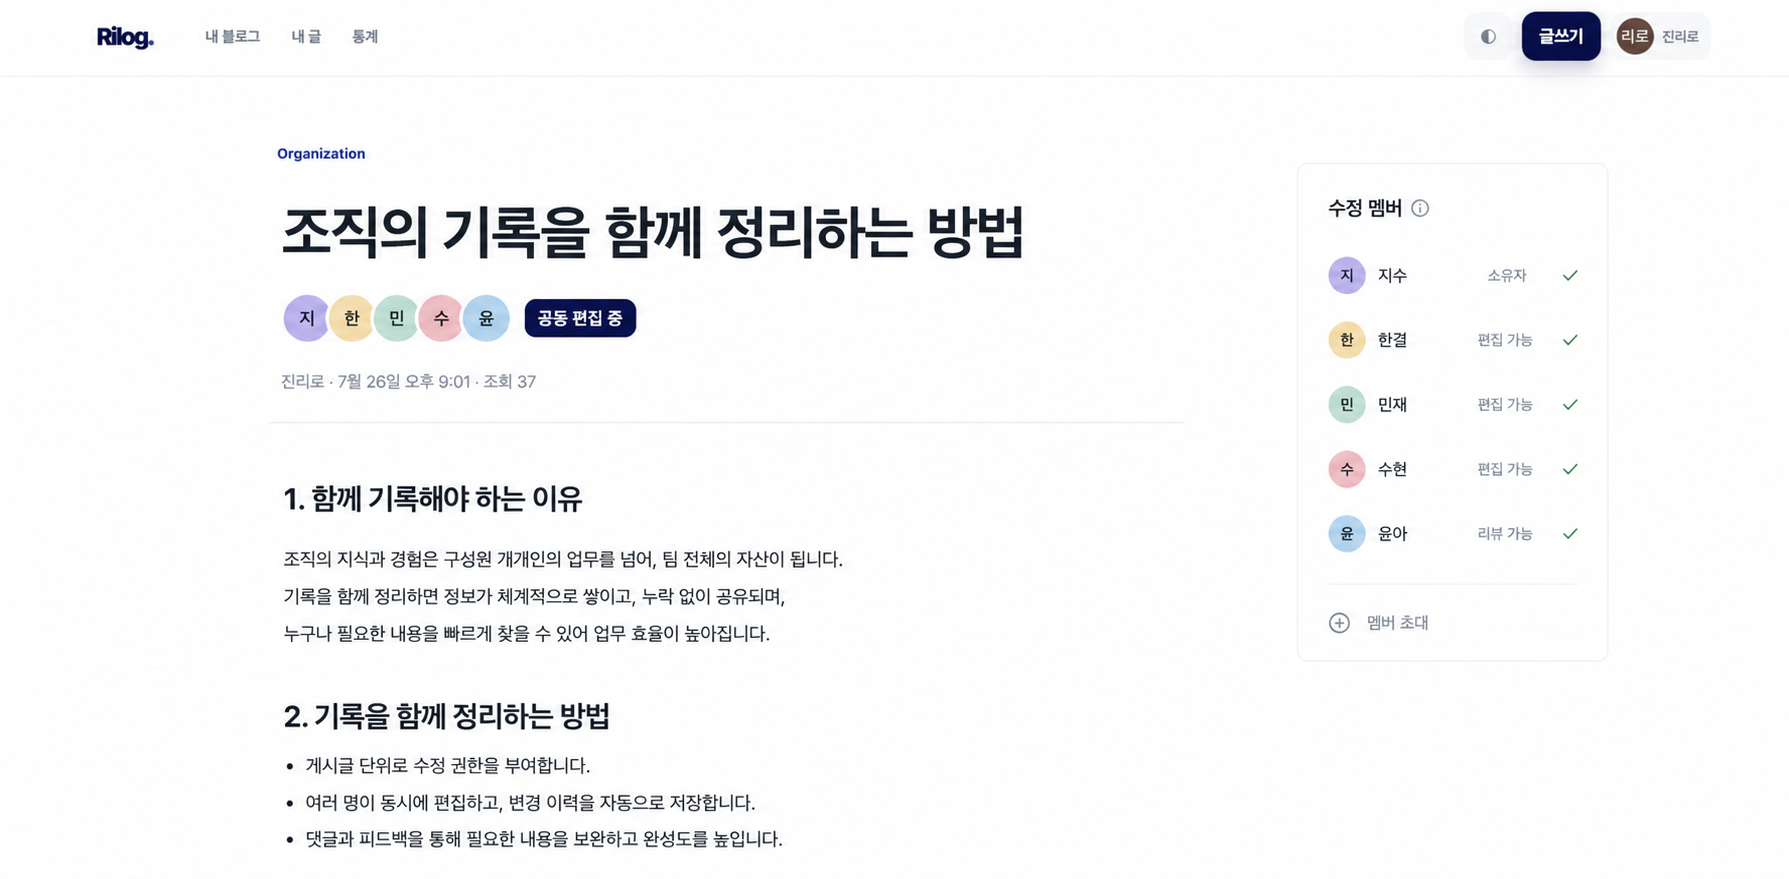
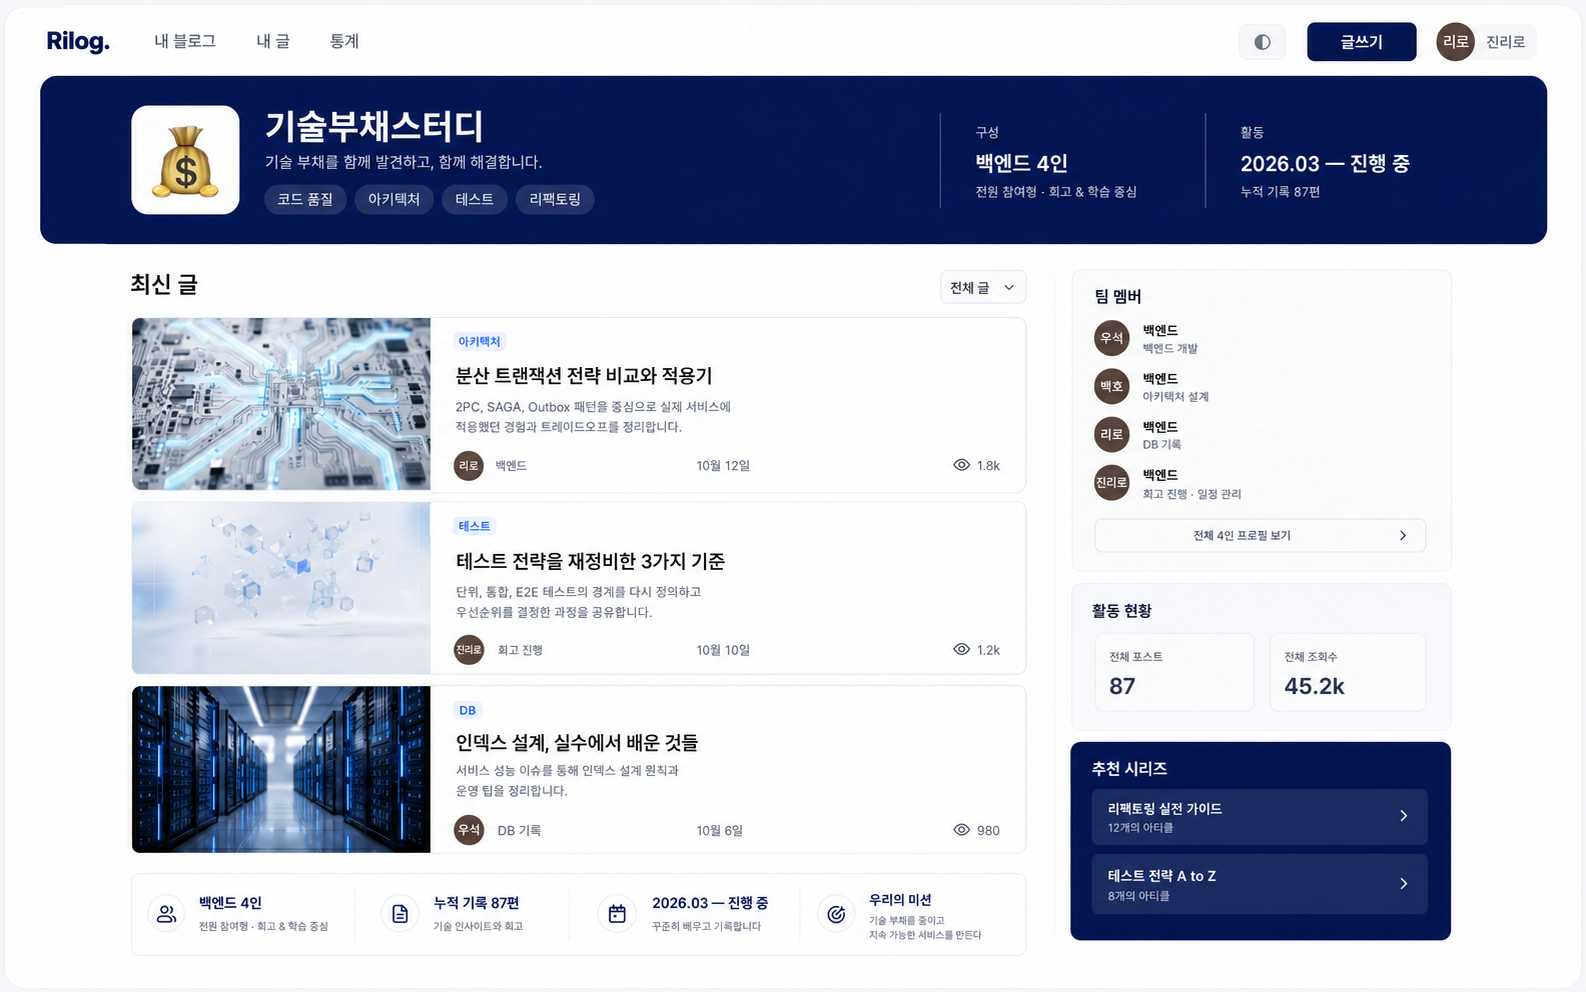
Update organization team blog image

diff --git a/index.html b/index.html
@@ -111,10 +111,10 @@
         <div class="landing-section-copy">
             <span class="landing-eyebrow">04 ORGANIZATION</span>
             <h2>팀과 함께 성장하는 공간</h2>
-            <p>Organization을 만들고 조직 블로그를 운영하며, 게시글마다 수정 가능한 멤버를 지정해 여러 사람이 함께 다듬는 흐름을 제공합니다.</p>
+            <p>Organization을 만들고 조직 블로그를 운영하며, 팀의 글과 시리즈, 활동 기록을 한곳에 모아 함께 쌓아갈 수 있습니다.</p>
         </div>
         <div class="landing-org-screen">
-            <img src="/images/landing/organization-collaboration.png" alt="여러 멤버가 함께 수정하는 Rilog. Organization 게시글 화면">
+            <img src="/images/landing/organization-collaboration.png" alt="팀 멤버와 최신 글, 활동 현황을 보여주는 Rilog. Organization 팀 블로그 화면">
         </div>
     </section>
 

diff --git a/landing.html b/landing.html
@@ -111,10 +111,10 @@
         <div class="landing-section-copy">
             <span class="landing-eyebrow">04 ORGANIZATION</span>
             <h2>팀과 함께 성장하는 공간</h2>
-            <p>Organization을 만들고 조직 블로그를 운영하며, 게시글마다 수정 가능한 멤버를 지정해 여러 사람이 함께 다듬는 흐름을 제공합니다.</p>
+            <p>Organization을 만들고 조직 블로그를 운영하며, 팀의 글과 시리즈, 활동 기록을 한곳에 모아 함께 쌓아갈 수 있습니다.</p>
         </div>
         <div class="landing-org-screen">
-            <img src="/images/landing/organization-collaboration.png" alt="여러 멤버가 함께 수정하는 Rilog. Organization 게시글 화면">
+            <img src="/images/landing/organization-collaboration.png" alt="팀 멤버와 최신 글, 활동 현황을 보여주는 Rilog. Organization 팀 블로그 화면">
         </div>
     </section>
 
